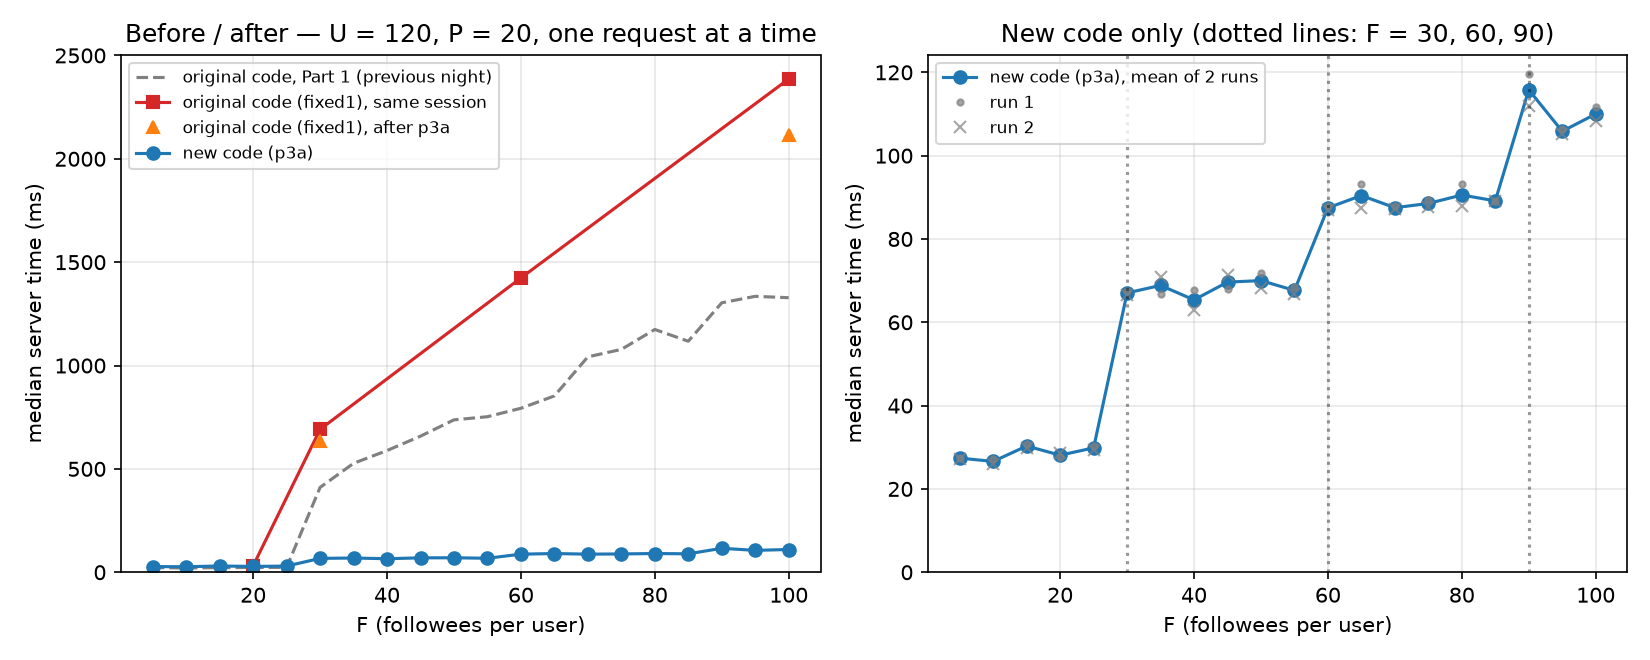
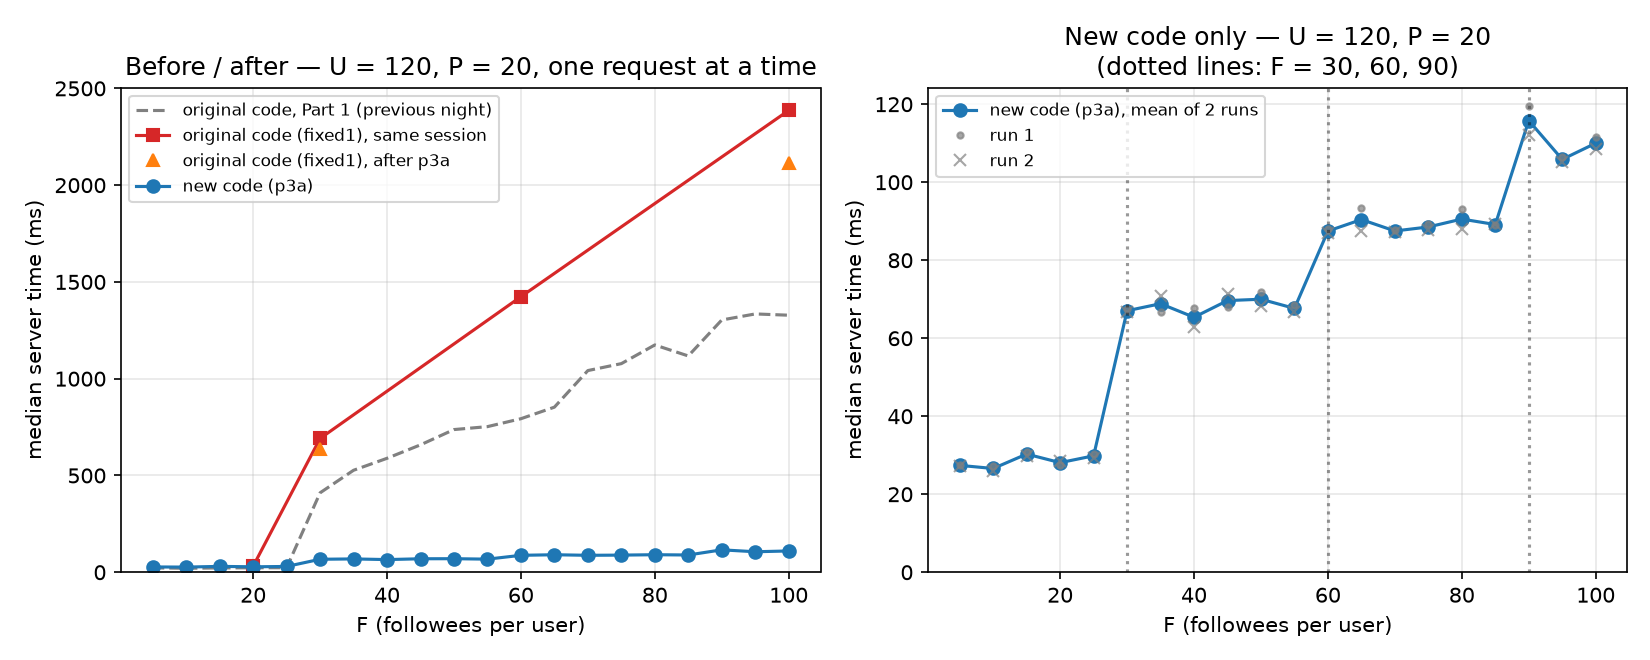
One-command regeneration of figures (scripts/make_all.sh); fixed parameters in the titles of Fig. 2b and Fig. 3

diff --git a/scripts/check_deliverables.py b/scripts/check_deliverables.py
@@ -1,0 +1,80 @@
+"""Checks the deliverables listed in the assignment (section 8 and the experimental charter).
+Usage: python scripts/check_deliverables.py
+Prints OK / MISSING for each item. Nothing is modified. It checks that things exist and are consistent;
+it cannot judge the quality of the explanations.
+"""
+import csv, glob, os, re, sys
+
+ok_all = True
+def report(ok, label, detail=""):
+    global ok_all
+    ok_all &= bool(ok)
+    print(("OK       " if ok else "MISSING  ") + label + (f"  [{detail}]" if detail else ""))
+
+def read(path):
+    return open(path, encoding="utf-8").read() if os.path.exists(path) else ""
+
+readme = read("README.md")
+print("== Files")
+report(bool(readme), "README.md")
+figs = ["fig1a", "fig1b", "fig2a", "fig2b", "fig3"]
+for f in figs:
+    report(os.path.exists(f"figures/{f}.png"), f"figures/{f}.png")
+    report(os.path.exists(f"figures/{f}.csv"), f"figures/{f}.csv")
+for part, n in (("part1", 52), ("part2", 42), ("part3", 52)):
+    k = len(glob.glob(f"raw/{part}/*.csv"))
+    report(k >= n, f"raw/{part}/ raw logs", f"{k} files, expected {n}")
+report(os.path.exists("Makefile") or os.path.exists("scripts/make_all.sh"),
+       "one command that regenerates all the figures (Makefile or scripts/make_all.sh)")
+report(os.path.exists("part3/main.py"), "part3/main.py (modified code kept apart from the instructor's main.py)")
+
+print("\n== README sections imposed by the assignment")
+for pat, label in ((r"^## 1\. ", "1. Setup"), (r"^## 2\. ", "2. Results"), (r"^## 3\. ", "3. Verdicts"),
+                   (r"^## 4\. ", "4. Validity"), (r"^## 5\. ", "5. Cost")):
+    report(re.search(pat, readme, re.M), label)
+for key in ("Part 1", "Part 2", "Part 3"):
+    report(re.search(rf"^### 2\.\d {key}", readme, re.M), f"Results: {key}")
+report("Initial expectations" in readme, "hypothesis, Part 1")
+report(re.search(r"Hypotheses \(written on .*before any Part 2", readme), "hypothesis, Part 2")
+report(re.search(r"Hypotheses \(written on .*before any Part 3", readme), "hypothesis, Part 3")
+for f in figs:
+    report(f"figures/{f}.png" in readme, f"{f}.png displayed in the README")
+for row in ("| Users (U)", "| Posts per user (P)", "| Followees (F)", "| Instances (N)"):
+    report(row in readme, f"verdict table row {row[2:]}")
+for i in range(1, 7):
+    report(re.search(rf"^{i}\. \*", readme, re.M), f"validity question {i} answered")
+report("Tools and AI assistance" in readme, "AI assistance declared")
+
+print("\n== Placeholders left in the README")
+left = [l.strip()[:100] for l in readme.splitlines()
+        if re.search(r"to be completed|still to be|will be filled|not started|TODO|\[AUTHOR|\[CORES", l, re.I)]
+report(not left, "no unfinished placeholder", "; ".join(left[:5]))
+
+print("\n== Content of the CSV files")
+def table(path):
+    if not os.path.exists(path):
+        return []
+    return list(csv.DictReader(open(path)))
+for f in figs:
+    p = f"figures/{f}.csv"
+    if os.path.exists(p):
+        head = open(p).readline().strip()
+        has_unit = re.search(r"_ms|_rps|_pct|_users|_per_", head) is not None
+        report(has_unit, f"{f}.csv header has units", head[:90])
+for name, col, expect in (("figures/fig1a.csv", "n_instances", lambda r: r == "1"),
+                          ("figures/fig1b.csv", "n_instances", lambda r: r == "1"),
+                          ("figures/fig3.csv", "instances_serving", lambda r: r == "1")):
+    rows = table(name)
+    if rows:
+        bad = [r for r in rows if not expect(r[col])]
+        report(not bad, f"{name}: every run served by exactly 1 instance", f"{len(rows)} runs, {len(bad)} different")
+rows = table("figures/fig2a.csv")
+if rows:
+    bad = [r for r in rows if r["instances_serving"] != r["N_instances"]]
+    report(not bad, "figures/fig2a.csv: instances serving = N in every run", f"{len(rows)} runs, {len(bad)} different")
+
+print("\n== Not checked here")
+print("  - default version still answers:  curl -s \"https://tinyinsta-512819.ew.r.appspot.com/api/timeline?user=base_u00001\" | head -c 150")
+print("  - all fixedN / p3a versions stopped and useless versions deleted; datasets purged (end of the project)")
+print("  - the two URLs submitted on Madoc")
+print("\nALL OK" if ok_all else "\nSOME ITEMS ARE MISSING")

diff --git a/scripts/check_reads.py b/scripts/check_reads.py
@@ -1,0 +1,96 @@
+"""Part 3 check: how many queries and how many entities does each version of get_timeline really use?
+Usage: python scripts/check_reads.py
+For one user of each dataset f25, f30, f60 and f100, the original code (main.py) and the new code
+(part3/main.py) are run against Datastore with counters around client.get and query.fetch.
+Counted: queries attempted, queries that raised an error, entities returned by Datastore to the client
+(the User entity read by key plus the posts). Nothing is written to Datastore.
+Writes logs/part3_reads.csv. The entities returned are what the pricing counts as entity reads
+(index entries are not billed for these queries, according to the pricing page).
+"""
+import csv, importlib.util, os, sys, types
+
+PROJECT = "tinyinsta-512819"
+DATASETS = ["f25", "f30", "f60", "f100"]
+
+class Counter:
+    def __init__(self):
+        self.queries = 0; self.failed = 0; self.entities = 0
+
+def instrument(client, c):
+    orig_query, orig_get = client.query, client.get
+
+    def query(*a, **k):
+        q = orig_query(*a, **k)
+        real_fetch = q.fetch
+        def fetch(*fa, **fk):
+            c.queries += 1
+            def gen():
+                try:
+                    for e in real_fetch(*fa, **fk):
+                        c.entities += 1
+                        yield e
+                except Exception:
+                    c.failed += 1
+                    raise
+            return gen()
+        q.fetch = fetch
+        return q
+
+    def get(*a, **k):
+        r = orig_get(*a, **k)
+        if r is not None:
+            c.entities += 1
+        return r
+
+    client.query, client.get = query, get
+
+def measure(mod, user, c):
+    c.queries = c.failed = c.entities = 0
+    result = mod.get_timeline(user)
+    return len(result)
+
+def load(name, path):
+    spec = importlib.util.spec_from_file_location(name, path)
+    mod = importlib.util.module_from_spec(spec)
+    spec.loader.exec_module(mod)
+    return mod
+
+def main():
+    os.environ["GOOGLE_CLOUD_PROJECT"] = PROJECT
+    try:
+        import flask  # noqa: F401
+    except ImportError:
+        stub = types.ModuleType("flask")
+        class FakeFlask:
+            def __init__(self, *a, **kw): self.secret_key = None
+            def route(self, *a, **kw): return lambda f: f
+        stub.Flask = FakeFlask
+        for n in ("request", "redirect", "url_for", "render_template_string", "session", "jsonify"):
+            setattr(stub, n, None)
+        sys.modules["flask"] = stub
+    from google.cloud import datastore
+    old = load("old_main", "main.py")
+    new = load("new_main", "part3/main.py")
+    client = datastore.Client(project=PROJECT, _use_grpc=False)
+    c = Counter()
+    instrument(client, c)
+    old.client = client
+    new.client = client
+
+    rows = []
+    for prefix in DATASETS:
+        user = f"{prefix}_u00000"
+        for label, mod in (("original", old), ("new", new)):
+            n_posts = measure(mod, user, c)
+            rows.append([prefix, label, n_posts, c.queries, c.failed, c.entities])
+            print(f"{prefix} {label:<8} posts returned={n_posts:<3} queries attempted={c.queries:<4} "
+                  f"failed={c.failed} entities read={c.entities}")
+    os.makedirs("logs", exist_ok=True)
+    with open("logs/part3_reads.csv", "w", newline="") as fh:
+        w = csv.writer(fh, lineterminator="\n")
+        w.writerow(["dataset", "version", "posts_returned", "queries_attempted", "queries_failed",
+                    "entities_read_by_client"])
+        w.writerows(rows)
+
+if __name__ == "__main__":
+    main()

diff --git a/scripts/plot_part3.py b/scripts/plot_part3.py
@@ -89,7 +89,7 @@ for rep, mk in ((1, "."), (2, "x")):
 for x in (30, 60, 90):
     b.axvline(x, color="k", linestyle=":", alpha=0.4)
 b.set_ylim(bottom=0); b.set_xlabel("F (followees per user)"); b.set_ylabel("median server time (ms)")
-b.set_title("New code only (dotted lines: F = 30, 60, 90)"); b.legend(fontsize=8); b.grid(alpha=0.3)
+b.set_title("New code only — U = 120, P = 20\n(dotted lines: F = 30, 60, 90)"); b.legend(fontsize=8); b.grid(alpha=0.3)
 fig.tight_layout(); fig.savefig(f"{OUT}/fig3.png", dpi=150); plt.close(fig)
 
 print("F    fixed1_before  fixed1_after  p3a(ms)  speedup_b  speedup_a  part1(ms)")

diff --git a/scripts/plot_part2.py b/scripts/plot_part2.py
@@ -103,7 +103,7 @@ for i, N in enumerate(Ns):
     a.plot(xs, [1000.0 * C / mean_rep(N, C, "throughput_rps") for C in xs], "--", color=col, label=f"N = {N}: Little, C / throughput")
 a.set_xscale("log", base=2); a.set_yscale("log")
 a.set_xlabel("C (simultaneous Locust users)"); a.set_ylabel("latency (ms, log scale)")
-a.set_title("Latency vs concurrency — fixedN, dataset base")
+a.set_title("Latency vs concurrency — fixedN\ndataset base (U=1000, P=20, F=20)")
 a.legend(fontsize=8); a.grid(alpha=0.3, which="both")
 fig.tight_layout(); fig.savefig(f"{OUT}/fig2b.png", dpi=150); plt.close(fig)
 
